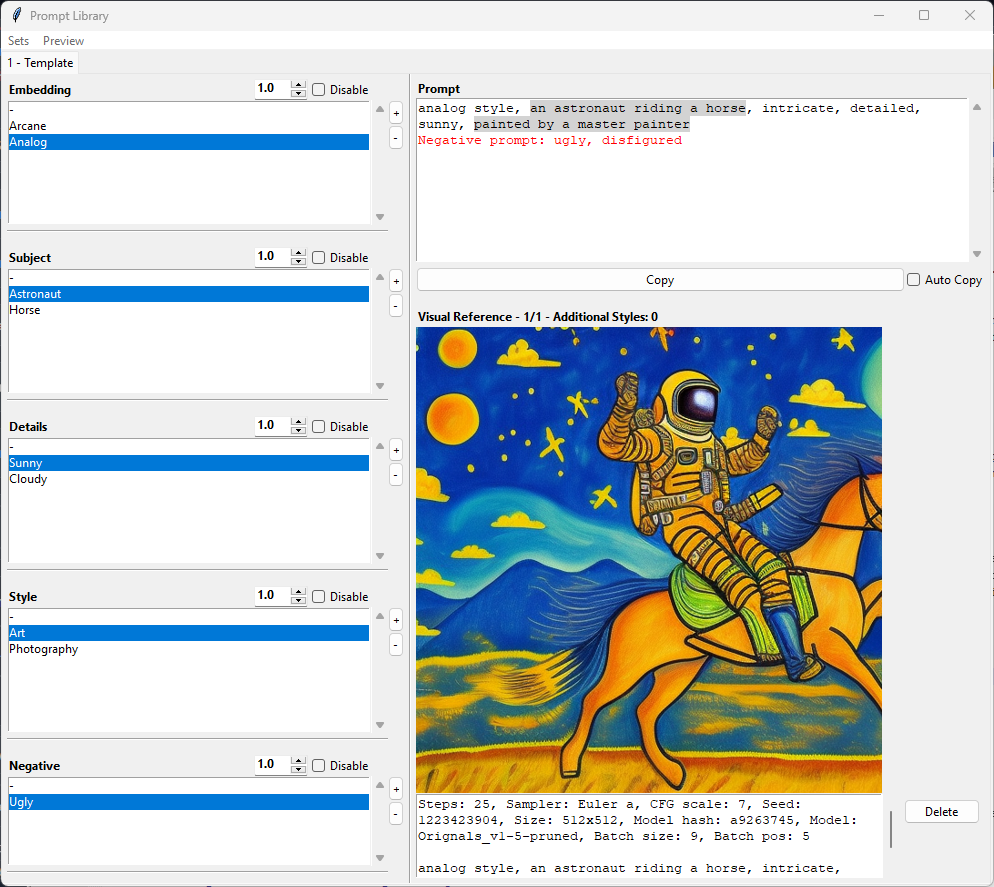
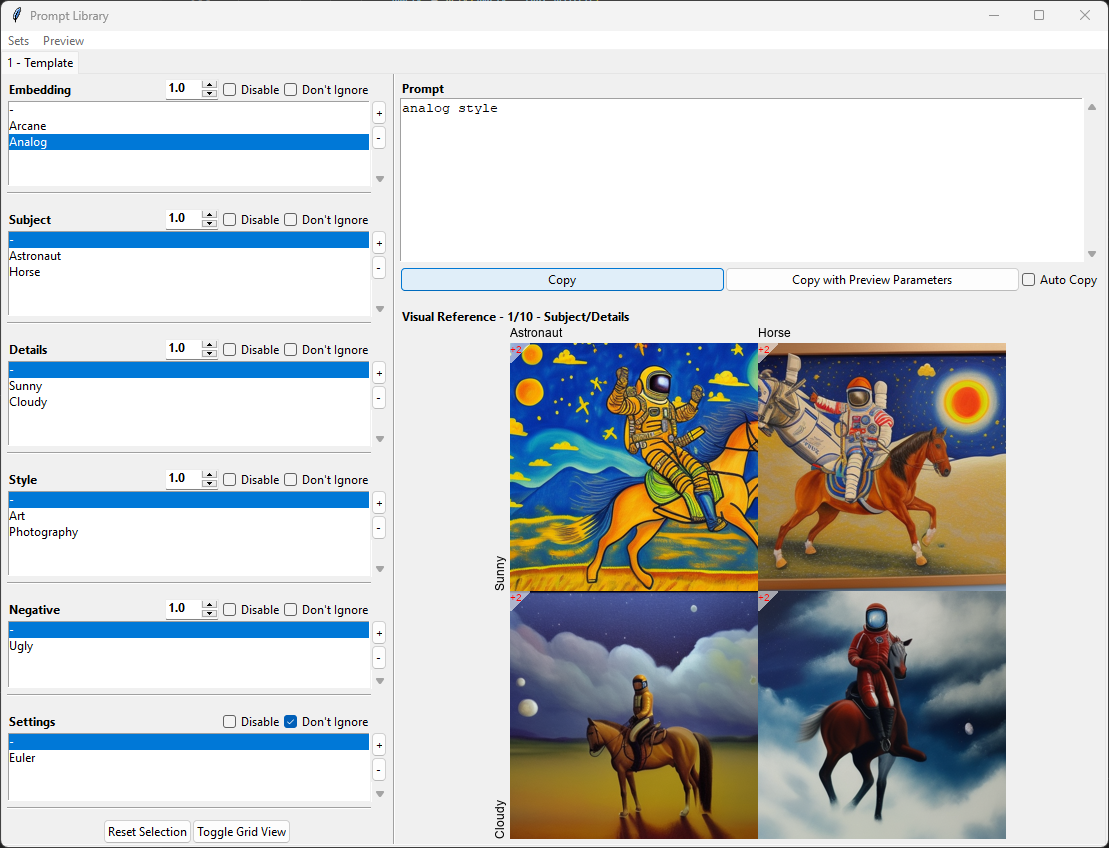
Updated Readme

diff --git a/README.md b/README.md
@@ -13,6 +13,10 @@ The two buttons on the right of each category allows to add or delete prompts. D
 There is a Menubar with the options to add or edit a new set of prompt categories:
 The first field allows you to set the name of the set. Then follows an ordered list of the categories. With the next two fields a new category can be created using the insert button. An existing category can be update with a new name or a new index with the update button. To do so, select the category you want to edit (or doubleclick to preload to edit fields) and change name and/or index. The remove button removes a category. Changes are discarded if you exit via the window close button ([x]). Save overwrites the set in editing mode or creates a new directory in new mode. If the name of a category is changed, all previews connected to this category will be moved to the '_archive' folder.
 
+The Button "Toggle Grid View" allows to switch between Grid comparison of categories and single image view
+
+The last category "Setting" is automatically added to every category and allows to define generation settings (Model, CFG Scale, Sampler, Steps, Seed, Size)
+
 ![Alt text](doc/PromptLibraryInterface_EditSet.png "Interface of Prompt-Library Edit Window")
 
 ### Generating Previews
